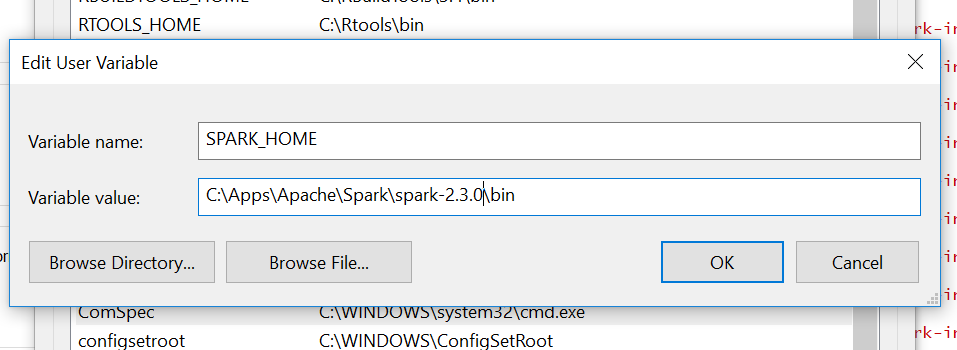
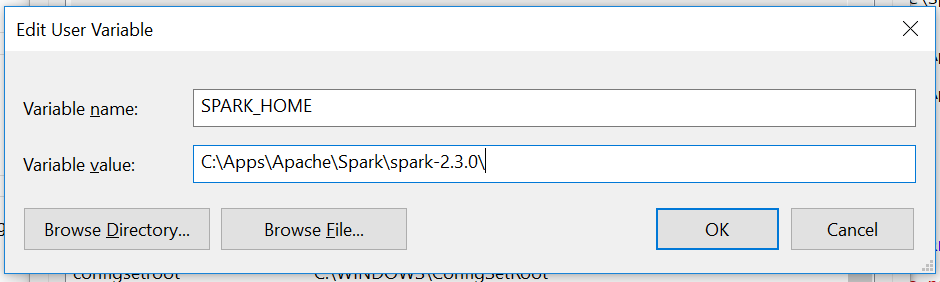
correct grammatical erros

Changed region(s): [[0.0, 0.0, 1.0, 1.0]]

diff --git a/public/2018/05/04/spark-installation-on-windows/index.html b/public/2018/05/04/spark-installation-on-windows/index.html
@@ -294,14 +294,14 @@ ga('send', 'pageview');
 <div id="step-1-download-and-installation" class="section level1">
 <h1>Step #1: Download and Installation</h1>
 <p><strong>Install Spark</strong></p>
-<p>First you will need to download Spark, which comes with the package for SparkR. Note, as of this posting, the SparkR package was removed from CRAN, so you can only get SparkR from the Apache website. Spark can be downloaded directly from Apache <a href="http://spark.apache.org/downloads.html">here</a>.</p>
+<p>First you will need to download Spark, which comes with the package for SparkR. Note, as of this posting, the SparkR package was removed from CRAN, so you can only get SparkR from the Apache website. Spark can be downloaded directly from Apache <a href="http://spark.apache.org/downloads.html">here</a>. I downloaded Spark 2.3.0 Pre-built for Apache Hadoop 2.7 and later.</p>
 <p>After downloading, save the zipped file to a directory of choice, and then unzip the file. I have an Apps (“C:\Apps”) folder where I put all the software that I download and install. This make it easy to transition to another laptop as all I have to do is go down the list installing software. I changed/shortened the Spark folder name for simplicity and ease of typing.</p>
 <p><img src="https://www.alfredogmarquez.com/images/Apache_folder_2018_05_15.png" /><!-- --> <br></br></p>
 <p><strong>Install Java</strong></p>
 <p>As of this writing, Java 9 has been having a ton of issues and is not stable. I was able to use the most recent version of Java 8. You can download the most recent version for Windows at this <a href="http://www.oracle.com/technetwork/java/javase/downloads/jdk8-downloads-2133151.html">link</a>. You have to accept their license agreement before downloadning.</p>
-<p>Unlike Spark, I will let the system determine where to install Java. I feel like this works best to reduce future issues. When you install Java, pay attention to the folder location of the installation. This is where you will find the bin folder. You will need to know this path to create the JAVA_HOME environmental variable.</p>
+<p>Unlike Spark, I will let the system determine where to install Java. I feel like this works best to reduce future issues. When you install Java, pay attention to the folder location of the installation. You will need to know this path to create the JAVA_HOME environmental variable.</p>
 <p><strong>Install WINUTILS</strong></p>
-<p>This step tripped me up for a long time when I first started to learning about Spark. Not many blog posts would talk about installing this software. I am not really sure what it does, but if you want more information here is the <a href="https://wiki.apache.org/hadoop/WindowsProblems">ApacheWiki</a>. You can download the winutils software from the github repo <a href="https://github.com/steveloughran/winutils">here</a>. Click on the green button (“clone or download”) on the upper right of the page and download the zip file. I would put this in your “C:Apps\winutils” folder so you can reference it easily (you will need it later). Extract all the files to this location using decompression software like <a href="http://www.peazip.org/">PeaZip</a> or WinZip. Pea7 is free and open source.</p>
+<p>This step tripped me up for a long time when I first started to learning about Spark. Not many blog posts would talk about installing this software. I am not really sure what it does, but if you want more information here is the <a href="https://wiki.apache.org/hadoop/WindowsProblems">ApacheWiki</a>. You can download the winutils software from the github repo <a href="https://github.com/steveloughran/winutils">here</a>. Click on the green button (“clone or download”) on the upper right of the page and download the zip file. I would put this in your “C:Apps\winutils” folder so you can reference it easily (you will need it later). Extract all the files to this location using decompression software like <a href="http://www.peazip.org/">PeaZip</a> or WinZip. PeaZip is free and open source.</p>
 <p>Once you have unzipped the file it should look like this: <img src="https://www.alfredogmarquez.com/images/winutils_folder_2018_05_15.png" /><!-- --> <br></br></p>
 </div>
 <div id="step-2-set-up-system-environmental-variables-to-run-spark-either-in-windows-or-r" class="section level1">
@@ -313,12 +313,12 @@ ga('send', 'pageview');
   Sys.setenv(SPARK_HOME = &quot;C:\\Apps\\Apache\\Spark\\spark-2.3.0\\bin&quot;)</code></pre>
 <div id="spark_home" class="section level4">
 <h4>SPARK_HOME:</h4>
-<p>The process to set up the environmental variables on your machine will be the similar for Spark as it is for the other variables below, where you provide a variable name, variable value and at it to the Path variable. So I will use Spark as a example that you can apply to the other variables.</p>
+<p>The process to set up the environmental variables on your machine will be the similar for Spark as it is for the other variables below, where you provide a variable name, variable value and add it to the Path variable. So I will use Spark as a example that you can apply to the other variables.</p>
 <ol style="list-style-type: decimal">
-<li>Locate the “bin” file path for the Spark version you downloaded to add to your environmental list. For Spark, the path is in my “C:\Apps” folder, or “C:\Apps\Apache\Spark\spark-2.3.0\bin”, copy the file path using ctrl + c.</li>
+<li>Locate the master or top level file path for the Spark version you downloaded to add to your environmental list. For Spark, the path is in my “C:\Apps” folder, or “C:\Apps\Apache\Spark\spark-2.3.0\”, copy the file path using ctrl + c.</li>
 <li>To locate your environmental variables On Windows 10, you can type “environmental” into the search bar at the bottom of you screen, then click on “edit system variables,” and click on the icon that says environmental variables at the bottom. On previous versions of Windows, click on the start menu, right click on computer or control panel, select properties and click on the icon that says “environmental variables”&quot; at the bottom.</li>
 </ol>
-<p>Your system properties should look like this: <img src="https://www.alfredogmarquez.com/images/System_Properties_2018_05_15.png" /><!-- --> <br></br></p>
+<p>In both cases your system properties should look like this: <img src="https://www.alfredogmarquez.com/images/System_Properties_2018_05_15.png" /><!-- --> <br></br></p>
 <ol start="3" style="list-style-type: decimal">
 <li>Next, add a new variable by clicking on the “New” icon in the User variables section. <img src="https://www.alfredogmarquez.com/images/System_Add_New_Var_2018_05_15.png" /><!-- --> <br></br></li>
 </ol>
@@ -328,7 +328,7 @@ ga('send', 'pageview');
 </ol></li>
 </ul>
 <pre><code>  Variable Name: SPARK_HOME
-  Variable Value: C:\\Apps\\Apache\\Spark\\spark-2.3.0\\bin ( or path to your Spark bin folder)</code></pre>
+  Variable Value: C:\\Apps\\Apache\\Spark\\spark-2.3.0\\ ( or path to your Spark bin folder)</code></pre>
 <p><br></br> <img src="https://www.alfredogmarquez.com/images/New_Var_SPARK_HOME_1_2018_05_15.png" /><!-- --> <br></br></p>
 <ul>
 <li><ol start="2" style="list-style-type: lower-alpha">
@@ -348,7 +348,7 @@ ga('send', 'pageview');
 </div>
 <div id="winutils_home" class="section level4">
 <h4>WINUTILS_HOME:</h4>
-<p>Since I have installed winutils in my C:directory, I will copy the path from there. Like Java, Winutils does not reference the “bin” folder. I will reference the path of the master folder.</p>
+<p>Since I have installed winutils in my C:directory, I will copy the path from there. I will reference the path of the master folder.</p>
 <pre><code>  Variable Name: WINUTILS_HOME 
   Variable Value: C:\Apps\winutils\winutils-master\</code></pre>
 </div>
@@ -368,7 +368,8 @@ ga('send', 'pageview');
 </div>
 <div id="set-library-path-and-load-sparkr-library" class="section level1">
 <h1>Set library path and load SparkR library</h1>
-<p>.libPaths(c(file.path(Sys.getenv(“SPARK_HOME”), “R”, “lib”), .libPaths())) library(SparkR)</p>
+<pre class="r"><code>#.libPaths(c(file.path(Sys.getenv(&quot;SPARK_HOME&quot;), &quot;R&quot;, &quot;lib&quot;), .libPaths()))
+#library(SparkR)</code></pre>
 </div>
 <div id="this-script-for-running-spark-code-from-the-r-console-or-rstudio" class="section level1">
 <h1>This script for running Spark code from the R Console, or Rstudio</h1>

diff --git a/content/post/2018-05-04-spark-installation-on-windows.html b/content/post/2018-05-04-spark-installation-on-windows.html
@@ -36,14 +36,14 @@ draft: false
 <div id="step-1-download-and-installation" class="section level1">
 <h1>Step #1: Download and Installation</h1>
 <p><strong>Install Spark</strong></p>
-<p>First you will need to download Spark, which comes with the package for SparkR. Note, as of this posting, the SparkR package was removed from CRAN, so you can only get SparkR from the Apache website. Spark can be downloaded directly from Apache <a href="http://spark.apache.org/downloads.html">here</a>.</p>
+<p>First you will need to download Spark, which comes with the package for SparkR. Note, as of this posting, the SparkR package was removed from CRAN, so you can only get SparkR from the Apache website. Spark can be downloaded directly from Apache <a href="http://spark.apache.org/downloads.html">here</a>. I downloaded Spark 2.3.0 Pre-built for Apache Hadoop 2.7 and later.</p>
 <p>After downloading, save the zipped file to a directory of choice, and then unzip the file. I have an Apps (“C:\Apps”) folder where I put all the software that I download and install. This make it easy to transition to another laptop as all I have to do is go down the list installing software. I changed/shortened the Spark folder name for simplicity and ease of typing.</p>
 <p><img src="/images/Apache_folder_2018_05_15.png" /><!-- --> <br></br></p>
 <p><strong>Install Java</strong></p>
 <p>As of this writing, Java 9 has been having a ton of issues and is not stable. I was able to use the most recent version of Java 8. You can download the most recent version for Windows at this <a href="http://www.oracle.com/technetwork/java/javase/downloads/jdk8-downloads-2133151.html">link</a>. You have to accept their license agreement before downloadning.</p>
-<p>Unlike Spark, I will let the system determine where to install Java. I feel like this works best to reduce future issues. When you install Java, pay attention to the folder location of the installation. This is where you will find the bin folder. You will need to know this path to create the JAVA_HOME environmental variable.</p>
+<p>Unlike Spark, I will let the system determine where to install Java. I feel like this works best to reduce future issues. When you install Java, pay attention to the folder location of the installation. You will need to know this path to create the JAVA_HOME environmental variable.</p>
 <p><strong>Install WINUTILS</strong></p>
-<p>This step tripped me up for a long time when I first started to learning about Spark. Not many blog posts would talk about installing this software. I am not really sure what it does, but if you want more information here is the <a href="https://wiki.apache.org/hadoop/WindowsProblems">ApacheWiki</a>. You can download the winutils software from the github repo <a href="https://github.com/steveloughran/winutils">here</a>. Click on the green button (“clone or download”) on the upper right of the page and download the zip file. I would put this in your “C:Apps\winutils” folder so you can reference it easily (you will need it later). Extract all the files to this location using decompression software like <a href="http://www.peazip.org/">PeaZip</a> or WinZip. Pea7 is free and open source.</p>
+<p>This step tripped me up for a long time when I first started to learning about Spark. Not many blog posts would talk about installing this software. I am not really sure what it does, but if you want more information here is the <a href="https://wiki.apache.org/hadoop/WindowsProblems">ApacheWiki</a>. You can download the winutils software from the github repo <a href="https://github.com/steveloughran/winutils">here</a>. Click on the green button (“clone or download”) on the upper right of the page and download the zip file. I would put this in your “C:Apps\winutils” folder so you can reference it easily (you will need it later). Extract all the files to this location using decompression software like <a href="http://www.peazip.org/">PeaZip</a> or WinZip. PeaZip is free and open source.</p>
 <p>Once you have unzipped the file it should look like this: <img src="/images/winutils_folder_2018_05_15.png" /><!-- --> <br></br></p>
 </div>
 <div id="step-2-set-up-system-environmental-variables-to-run-spark-either-in-windows-or-r" class="section level1">
@@ -55,12 +55,12 @@ draft: false
   Sys.setenv(SPARK_HOME = &quot;C:\\Apps\\Apache\\Spark\\spark-2.3.0\\bin&quot;)</code></pre>
 <div id="spark_home" class="section level4">
 <h4>SPARK_HOME:</h4>
-<p>The process to set up the environmental variables on your machine will be the similar for Spark as it is for the other variables below, where you provide a variable name, variable value and at it to the Path variable. So I will use Spark as a example that you can apply to the other variables.</p>
+<p>The process to set up the environmental variables on your machine will be the similar for Spark as it is for the other variables below, where you provide a variable name, variable value and add it to the Path variable. So I will use Spark as a example that you can apply to the other variables.</p>
 <ol style="list-style-type: decimal">
-<li>Locate the “bin” file path for the Spark version you downloaded to add to your environmental list. For Spark, the path is in my “C:\Apps” folder, or “C:\Apps\Apache\Spark\spark-2.3.0\bin”, copy the file path using ctrl + c.</li>
+<li>Locate the master or top level file path for the Spark version you downloaded to add to your environmental list. For Spark, the path is in my “C:\Apps” folder, or “C:\Apps\Apache\Spark\spark-2.3.0\”, copy the file path using ctrl + c.</li>
 <li>To locate your environmental variables On Windows 10, you can type “environmental” into the search bar at the bottom of you screen, then click on “edit system variables,” and click on the icon that says environmental variables at the bottom. On previous versions of Windows, click on the start menu, right click on computer or control panel, select properties and click on the icon that says “environmental variables”&quot; at the bottom.</li>
 </ol>
-<p>Your system properties should look like this: <img src="/images/System_Properties_2018_05_15.png" /><!-- --> <br></br></p>
+<p>In both cases your system properties should look like this: <img src="/images/System_Properties_2018_05_15.png" /><!-- --> <br></br></p>
 <ol start="3" style="list-style-type: decimal">
 <li>Next, add a new variable by clicking on the “New” icon in the User variables section. <img src="/images/System_Add_New_Var_2018_05_15.png" /><!-- --> <br></br></li>
 </ol>
@@ -70,7 +70,7 @@ draft: false
 </ol></li>
 </ul>
 <pre><code>  Variable Name: SPARK_HOME
-  Variable Value: C:\\Apps\\Apache\\Spark\\spark-2.3.0\\bin ( or path to your Spark bin folder)</code></pre>
+  Variable Value: C:\\Apps\\Apache\\Spark\\spark-2.3.0\\ ( or path to your Spark bin folder)</code></pre>
 <p><br></br> <img src="/images/New_Var_SPARK_HOME_1_2018_05_15.png" /><!-- --> <br></br></p>
 <ul>
 <li><ol start="2" style="list-style-type: lower-alpha">
@@ -90,7 +90,7 @@ draft: false
 </div>
 <div id="winutils_home" class="section level4">
 <h4>WINUTILS_HOME:</h4>
-<p>Since I have installed winutils in my C:directory, I will copy the path from there. Like Java, Winutils does not reference the “bin” folder. I will reference the path of the master folder.</p>
+<p>Since I have installed winutils in my C:directory, I will copy the path from there. I will reference the path of the master folder.</p>
 <pre><code>  Variable Name: WINUTILS_HOME 
   Variable Value: C:\Apps\winutils\winutils-master\</code></pre>
 </div>
@@ -110,7 +110,8 @@ draft: false
 </div>
 <div id="set-library-path-and-load-sparkr-library" class="section level1">
 <h1>Set library path and load SparkR library</h1>
-<p>.libPaths(c(file.path(Sys.getenv(“SPARK_HOME”), “R”, “lib”), .libPaths())) library(SparkR)</p>
+<pre class="r"><code>#.libPaths(c(file.path(Sys.getenv(&quot;SPARK_HOME&quot;), &quot;R&quot;, &quot;lib&quot;), .libPaths()))
+#library(SparkR)</code></pre>
 </div>
 <div id="this-script-for-running-spark-code-from-the-r-console-or-rstudio" class="section level1">
 <h1>This script for running Spark code from the R Console, or Rstudio</h1>
